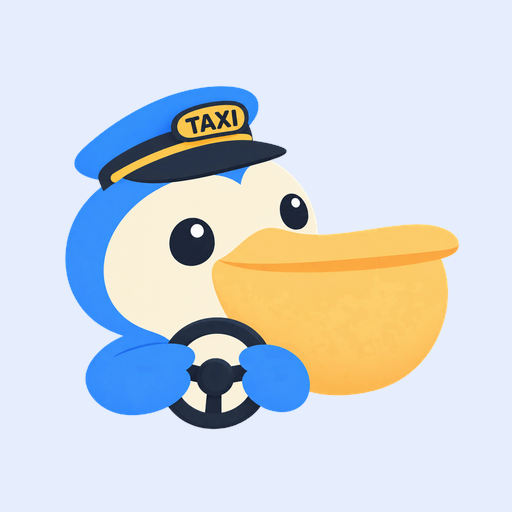
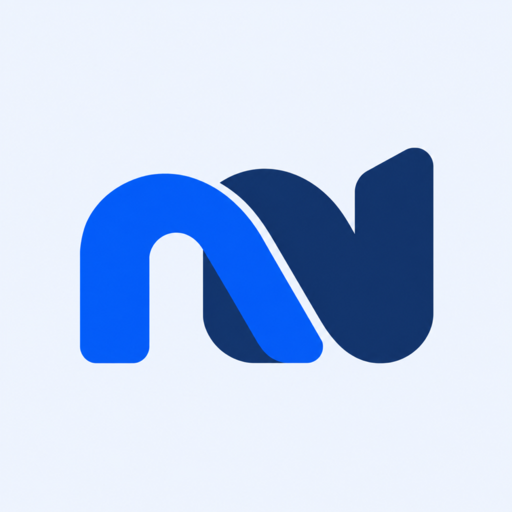
chore: 앱 아이콘을 새 로고로 교체한다
런처 아이콘 15개(5밀도 × 사각/원형/foreground)와 Play 스토어 아이콘 2개를
`_workspace/play-assets/00-logo-source-512.png` 하나에서 다시 만들었다.

**적응형 foreground 는 원본을 그대로 쓰지 않았다.** 이 로고는 마크의 외접원이
캔버스의 78.6% 인데 적응형 아이콘이 보장하는 건 66.7%(72dp 마스크 원)다 —
그대로 올리면 원형 마스크를 쓰는 런처에서 양 끝이 잘린다. 외접원이 64%가
되도록 축소해 가운데 올렸다(`FG_RADIUS_RATIO = 0.32`). 레거시 `ic_launcher`
는 마스크가 없으므로 원본 풀블리드 그대로다.

`ic_launcher_background` 도 #E6EEFE → #EDF3FE 로 같이 옮겼다. 적응형 아이콘의
배경 레이어가 이 색이라, 새 로고의 배경과 안 맞추면 마크 둘레에 색 띠가 생긴다.

원본이 불투명 한 장이라 foreground 를 만들려면 배경을 지워야 했다. 임계값 하나로
자르면 어두운 쪽 색(#13356C)이 통째로 12% 반투명해져서, 순수색 2개를 k-means 로
찾고 배경에서 3px 넘게 떨어진 픽셀은 불투명 고정, 경계의 안티앨리어싱 띠만
피복률을 역산했다. 재합성 검산 결과 어긋나는 건 배경보다 **밝은** 1px 테두리
하이라이트 32픽셀뿐이고, 48~432px 로 줄면 서브픽셀이라 보이지 않는다.

다음에 또 바꿀 수 있게 `make-icons.py` 를 같이 넣었다. 원본만 갈아끼우고 돌리면
17개가 다시 나온다. 주의점은 play-assets/README.md 의 「로고를 바꿀 때」에 적었다.

에뮬레이터(Pixel_6, API 37)에 올려 앱 서랍에서 원형 마스크로 잘리지 않는 것까지
확인했다.

diff --git a/_workspace/play-assets/make-icons.py b/_workspace/play-assets/make-icons.py
@@ -1,0 +1,99 @@
+import math, os, collections
+from PIL import Image, ImageDraw
+
+ROOT = "/Users/sungyoon/Desktop/moyeota/frontend"
+SRC  = f"{ROOT}/_workspace/play-assets/00-logo-source-512.png"
+RES  = f"{ROOT}/app/src/main/res"
+DENS = {"mdpi":1, "hdpi":1.5, "xhdpi":2, "xxhdpi":3, "xxxhdpi":4}
+FG_RADIUS_RATIO = 0.32     # 108dp 캔버스에서 외접원 지름 64% (72dp 마스크 원 66.7% 안쪽)
+
+src = Image.open(SRC).convert("RGBA"); W,H = src.size; sp = src.load()
+
+# ── 배경색 ────────────────────────────────────────────────────────
+ring = [sp[x,y][:3] for y in range(H) for x in range(W) if x<6 or y<6 or x>=W-6 or y>=H-6]
+BG = tuple(round(sum(c[i] for c in ring)/len(ring)) for i in range(3))
+def araw(p): return max(0.0, max((BG[c]-p[c])/BG[c] for c in range(3)))
+
+# ── 순수 마크색 2개 (k-means, 코어 픽셀 기준) ─────────────────────
+core = [sp[x,y][:3] for y in range(H) for x in range(W) if araw(sp[x,y]) > 0.80]
+M = [list(collections.Counter(core).most_common(1)[0][0]), None]
+M[1] = list(max(core, key=lambda c: sum((c[i]-M[0][i])**2 for i in range(3))))
+for _ in range(12):
+    buckets = ([], [])
+    for c in core:
+        d0 = sum((c[i]-M[0][i])**2 for i in range(3))
+        d1 = sum((c[i]-M[1][i])**2 for i in range(3))
+        buckets[0 if d0 <= d1 else 1].append(c)
+    for k in (0,1):
+        if buckets[k]:
+            M[k] = [sum(c[i] for c in buckets[k])/len(buckets[k]) for i in range(3)]
+for k in (0,1):
+    print(f"순수색 M{k+1} = #{round(M[k][0]):02X}{round(M[k][1]):02X}{round(M[k][2]):02X}  ({len(buckets[k])}px)")
+print(f"배경 BG   = #{BG[0]:02X}{BG[1]:02X}{BG[2]:02X}")
+
+# ── 배경에서 3px 이상 떨어진 픽셀은 "내부" — 무조건 불투명 ──
+from PIL import ImageFilter
+# 확실한 배경(araw<0.02)을 3px 팽창 → 그 밖은 전부 내부(불투명 고정)
+bgbin = Image.new("L", (W,H), 0); bb = bgbin.load()
+for y in range(H):
+    for x in range(W):
+        if araw(sp[x,y]) < 0.02: bb[x,y] = 255
+bgdil = bgbin.filter(ImageFilter.MaxFilter(7)).load()
+
+DEN = [sum((M[k][i]-BG[i])**2 for i in range(3)) for k in (0,1)]
+mark = Image.new("RGBA", (W,H), (0,0,0,0)); mp = mark.load()
+for y in range(H):
+    for x in range(W):
+        p = sp[x,y]
+        if bb[x,y]: continue                      # 확실한 배경 → 투명
+        if not bgdil[x,y]:                        # 배경에서 먼 내부 → 원색 그대로
+            mp[x,y] = (p[0], p[1], p[2], 255); continue
+        best_a, best_r = 0.0, 1e18                # 배경 경계 AA 띠 → 피복률 역산
+        for k in (0,1):
+            a = sum((p[i]-BG[i])*(M[k][i]-BG[i]) for i in range(3)) / DEN[k]
+            ac = max(0.0, min(1.0, a))
+            r = sum((p[i] - (ac*M[k][i] + (1-ac)*BG[i]))**2 for i in range(3))
+            if r < best_r: best_r, best_a = r, ac
+        if best_a <= 0.004: continue
+        if best_a >= 0.999:
+            mp[x,y] = (p[0], p[1], p[2], 255)
+        else:
+            m = tuple(max(0,min(255, round((p[i]-(1-best_a)*BG[i])/best_a))) for i in range(3))
+            mp[x,y] = (*m, round(best_a*255))
+
+# ── 검산 1: 배경색 위에 다시 합성하면 원본과 같아야 한다 ──────────
+chk = Image.alpha_composite(Image.new("RGBA",(W,H),(*BG,255)), mark)
+diffs = [max(abs(a-b) for a,b in zip(c1[:3],c2[:3])) for c1,c2 in zip(chk.getdata(), src.getdata())]
+print(f"검산 재합성 오차: 최대 {max(diffs)}/255, 3 초과 픽셀 {sum(1 for d in diffs if d>3)}개")
+# ── 검산 2: 반투명 잔재가 없어야 한다 ─────────────────────────────
+op = sum(1 for y in range(H) for x in range(W) if mp[x,y][3] == 255)
+semi = sum(1 for y in range(H) for x in range(W) if 32 < mp[x,y][3] < 255)
+print(f"검산 알파: 완전불투명 {op}px / 반투명(AA) {semi}px")
+
+cx, cy = W/2, H/2
+maxr = max(math.hypot(x+.5-cx, y+.5-cy) for y in range(H) for x in range(W) if mp[x,y][3] > 32)
+print(f"마크 외접 반지름 {maxr:.1f}px = 소스의 {200*maxr/W:.1f}%\n")
+
+def webp(im, path): im.save(path, "WEBP", lossless=True, method=6, exact=True)
+
+# ── 적응형 foreground ─────────────────────────────────────────────
+for d, mul in DENS.items():
+    S = round(108*mul); k = (FG_RADIUS_RATIO*S)/maxr; n = max(1, round(W*k))
+    cv = Image.new("RGBA", (S,S), (0,0,0,0))
+    cv.paste(mark.resize((n,n), Image.LANCZOS), ((S-n)//2, (S-n)//2))
+    webp(cv, f"{RES}/mipmap-{d}/ic_launcher_foreground.webp")
+# ── 레거시 사각(풀블리드) + 원형 ──────────────────────────────────
+for d, mul in DENS.items():
+    S = round(48*mul)
+    base = src.resize((S,S), Image.LANCZOS)
+    webp(base, f"{RES}/mipmap-{d}/ic_launcher.webp")
+    rnd = base.copy(); SS = S*8
+    m = Image.new("L", (SS,SS), 0); ImageDraw.Draw(m).ellipse((0,0,SS-1,SS-1), fill=255)
+    rnd.putalpha(m.resize((S,S), Image.LANCZOS))
+    webp(rnd, f"{RES}/mipmap-{d}/ic_launcher_round.webp")
+# ── Play 스토어 아이콘 ────────────────────────────────────────────
+play = src.copy(); play.putalpha(255)
+for p in [f"{ROOT}/app/src/main/ic_launcher-playstore.png",
+          f"{ROOT}/_workspace/play-assets/01-icon-512.png"]:
+    play.save(p, "PNG", optimize=True)
+print(f"colors.xml ic_launcher_background -> #{BG[0]:02X}{BG[1]:02X}{BG[2]:02X}")

diff --git a/_workspace/play-assets/README.md b/_workspace/play-assets/README.md
@@ -7,6 +7,7 @@
 
 | 파일 | 어디에 | 규격 |
 |---|---|---|
+| `00-logo-source-512.png` | — (디자인 원본) | 512×512 PNG · 아래 모든 아이콘의 출처 |
 | `01-icon-512.png` | 앱 아이콘 | 512×512 PNG (앱의 `ic_launcher-playstore.png` 복사본) |
 | `02`~`09-screenshot-*.png` | 휴대전화 스크린샷 | 1080×1920 (9:16) · 8장 |
 | `10-feature-graphic-1024x500.png` | 그래픽 이미지 | 1024×500 |
@@ -35,7 +36,38 @@
 - 화면을 다시 찍으면 **하단 탭바가 잘리지 않는지** 확인할 것. 처음 만들 때 아래를 잘라
   '이어지는 느낌'을 주려다 탭바가 반만 보여 미완성처럼 읽혔다.
 
+## 로고를 바꿀 때
+
+`00-logo-source-512.png` 를 새 512×512 PNG 로 갈아끼우고 `make-icons.py` 를 돌리면
+런처 아이콘 15개 + Play 아이콘 2개가 한 번에 다시 만들어진다.
+
+```
+python3 _workspace/play-assets/make-icons.py
+```
+
+스크립트가 하는 일:
+
+1. **테두리 6px 평균으로 배경색을 구한다.** 그 값을 `values/colors.xml` 의
+   `ic_launcher_background` 에 **직접 넣어야 한다** — 스크립트는 값을 출력만 한다.
+   적응형 아이콘의 배경 레이어가 이 색이라, 안 맞추면 마크 둘레에 색 띠가 생긴다.
+2. **마크만 분리한다.** 원본은 불투명 한 장이라 배경을 지워야 foreground 가 된다.
+   순수색 2개를 k-means 로 찾고, 배경에서 3px 넘게 떨어진 픽셀은 불투명 고정,
+   경계의 안티앨리어싱 띠만 피복률을 역산한다. 전역 임계값 한 개로 자르면 어두운
+   쪽 색이 통째로 반투명해진다.
+3. **적응형 foreground 는 마크를 축소해 올린다** (`FG_RADIUS_RATIO = 0.32`).
+   108dp 캔버스에서 마크 외접원이 64%가 되는 값 — 72dp 마스크 원(66.7%) 안쪽이다.
+   **원본을 그대로 쓰면 안 된다**: 이 로고는 외접원이 78.6%라 원형 마스크에서
+   양 끝이 잘린다.
+4. 레거시 `ic_launcher` 는 원본 풀블리드 축소, `ic_launcher_round` 는 원형 크롭.
+   `minSdk = 24` 라 API 24·25 에서 실제로 쓰인다 — 지우면 안 된다.
+
+검산 두 줄이 출력된다. **재합성 오차**(마크를 배경색 위에 다시 얹어 원본과 비교)와
+**알파 분포**(반투명이 경계 띠 수준인지). 오차가 수천 픽셀로 번지면 배경 키잉이
+깨진 것이다.
+
 ## 다시 만들 때
+
+(스크린샷·그래픽 이미지 이야기다. 아이콘은 위 「로고를 바꿀 때」를 보라.)
 
 필요한 것: Pillow, `/System/Library/Fonts/AppleSDGothicNeo.ttc`.
 캔버스 1080×1920, 배경은 `#085AF5` → `#053EAA` 세로 그라데이션, 캡션은 상단 104px
